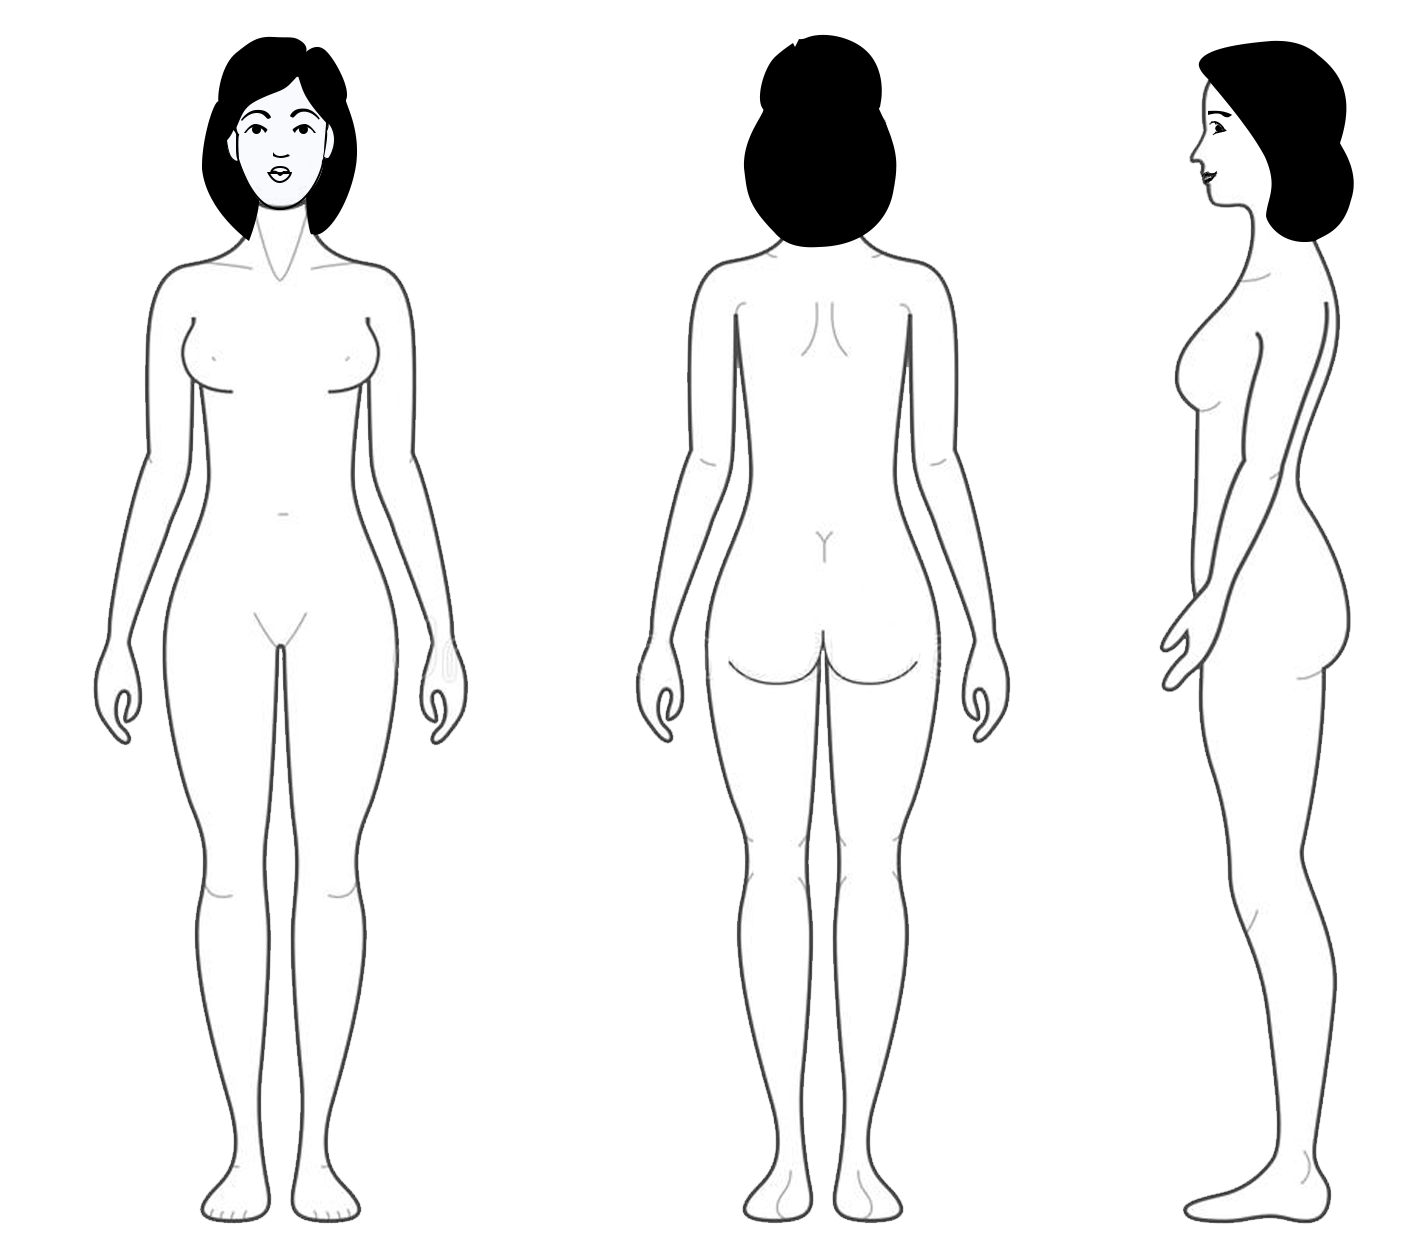
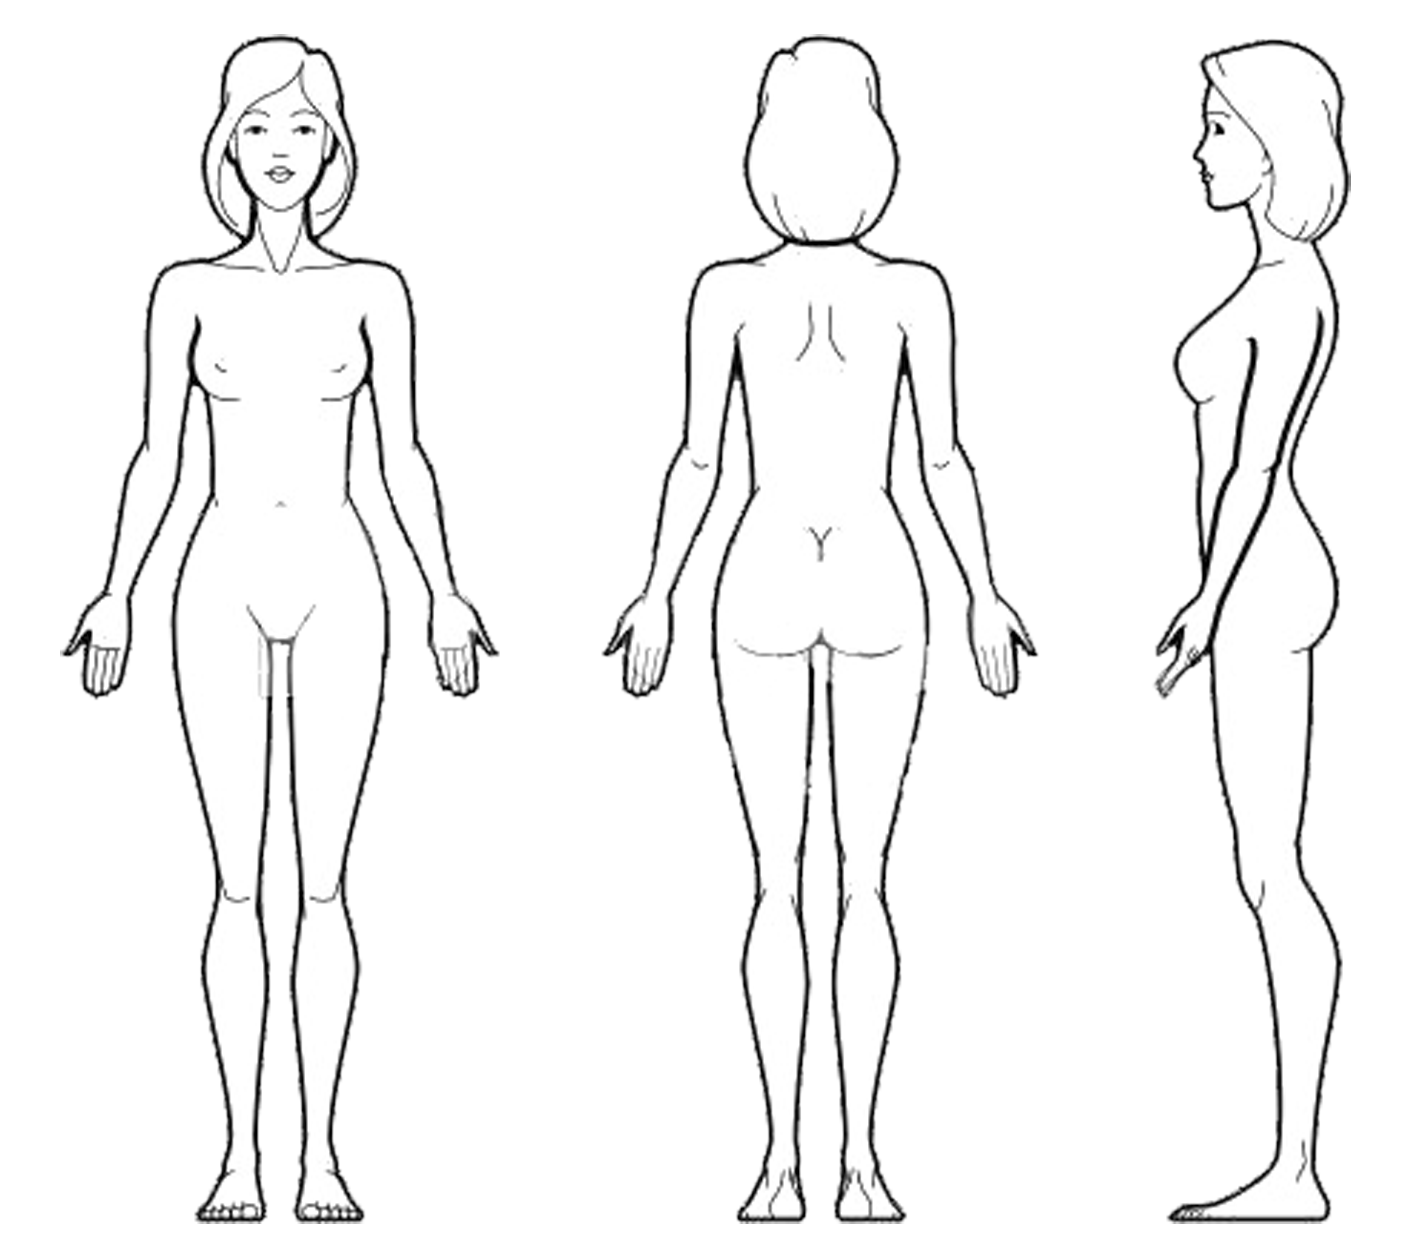
Re-adding newer content.

diff --git a/index.html b/index.html
@@ -6,7 +6,7 @@
     <title></title>
     <style>
         body {
-            font-family: "Helvetica Neue", "Helvetica", sans-serif;
+            font-family: "Lexend", "Helvetica Neue", "Helvetica", sans-serif;
             margin: 0;
             padding: 0;
             font-size: 14px;
@@ -26,17 +26,81 @@
             display: flex;
         }
 
-        footer {
-            background-color: #666;
-            color: #eee;
-            height: 0vh;
+        #dummy {
+            display: inline-block;
+            position: relative;
+            top: 0px;
+            left: 0px;
+            width: 100%;
+            background-color: #fffa;
+            object-fit: contain;
+            border: 1px solid #fff;
+        }
+
+        td {
+            white-space: nowrap;
+        }
+
+        #measureImage {
+            object-fit: contain;
+            height: 100vh;
+        }
+
+        #dummyWrap {
+            position: relative;
+            background-color: #0ac;
+            height: 100vh;
+        }
+
+        .line {
+            position: absolute;
+            visibility: hidden;
+        }
+
+        #measurements {
+            display: flex;
+            padding: 1em;
+            border: 1px solid #aaa;
+        }
+
+        .title {
+            position: absolute;
+            top: 0em;
+            left: 0em;
+            width: 100%;
+            height: 1em;
+            font-size: 32px;
+            font-weight: bold;
+            background-color: #fffa;
+            padding: .25em 1em .5em;
+            color: #000;
+            text-transform: capitalize;
+
         }
     </style>
 </head>
 
 <body>
-    <main></main>
+    <header></header>
+    <main>
+        <table id='measurements'>
+            <tbody id='measurementsBody'>
+                <tr>
+                    <td>Gender</td>
+                    <td><select onchange='app.switchGender(this.options[this.selectedIndex].value)' id='gender'>
+                            <option value='male'>Male</option>
+                            <option value='female'>Female</option>
+                        </select></td>
+                </tr>
+            </tbody>
+        </table>
+        <div id='dummy'>
+            <img src='measurements_male.png' id='measureImage'>
+            <div class='title'></div>
+        </div>
+    </main>
 
+    <footer></footer>
     <script>
         //function $(str) { return document.querySelector(str); }
         const $ = (str) => document.querySelector(str);
@@ -53,17 +117,83 @@
                     });
                 },
                 state: {
-                    loaded: false
+                    loaded: false,
+                    sex: 'male'
                 },
                 config: {
                     measurements: []
                 },
                 measurementTable: function() {
-
-                    app.config.measurements.forEach((item, idx) => {
+                    let out = "";
+                    let dummy = $("#dummy");
+                    let img = $("#measureImage");
+                    let dy = img.height / 1242;
+                    let dx = img.width / 1411;
+                    app.config.measurements[app.state.sex].forEach((item, idx) => {
                         console.dir(item);
+                        out += `<tr id='row_${item.id}'><td id='name_${item.id}'>${item.name}</td><td id='value_${item.id}'><input type='text' id='input_${item.id}'></td></tr>`;
+                        let img = new Image(item.overlaySize.width * dx, item.overlaySize.height * dy);
+                        img.src = app.state.sex + '/' + item.overlayImage;
+                        img.className = 'line';
+                        img.id = `line_${item.id}`;
+
+                        img.style.top = item.overlayCoord.y * dy + 'px';
+                        img.style.left = item.overlayCoord.x * dx + 'px';
+                        img.addEventListener("mouseover", app.lineOver);
+                        img.addEventListener("mouseout", app.lineOver);
+                        dummy.appendChild(img);
                     });
+                    $("#measurementsBody").innerHTML += out;
+                    $("#measurements").addEventListener("mouseover", app.doOver);
+                    $("#measurements").addEventListener("mouseout", app.doOut);
+                    $("#measurements").addEventListener("focus", app.doFocus, true);
+                    $("#measurements").addEventListener("blur", app.doFocus, true);
                 },
+                doFocus: function(e) {
+                    console.dir(e);
+                    let match;
+                    if (match = e.target.id.match(/(input)_(.*)/)) {
+                        if (e.type === 'focus') {
+                            app.state.focus = match[2];
+                            $(".title").innerHTML = match[2].replace(/\-/g, ' ');
+                        } else {
+                            app.state.focus = null;
+                            $(".title").innerHTML = '';
+
+                        }
+                    }
+                },
+                lineOver: function(e) {
+                    if (e.type === 'mouseover') {
+                        e.target.style.visibility = "visible";
+
+                    } else if (e.type === 'mouseout') {
+                        e.target.style.visibility = "hidden";
+                    }
+                },
+                doOver: function(e) {
+                    let match;
+                    if (match = e.target.id.match(/(name|value|input)_(.*)/)) {
+                        $(`#line_${match[2]}`).style.visibility = "visible";
+
+                        $(".title").innerHTML = match[2].replace(/\-/g, ' ');
+                    }
+
+                },
+                doOut: function(e) {
+                    let match;
+                    if (match = e.target.id.match(/(name|value|input)_(.*)/)) {
+                        if (match[2] !== app.state.focus) {
+                            $(`#line_${match[2]}`).style.visibility = "hidden";
+                            $(".title").innerHTML = (app.state.focus) ? app.state.focus.replace(/\-/g, ' ') : '';
+                        }
+                    }
+
+                },
+                switchGender: function(sex) {
+                    $("#measureImage").src = `measurements_${sex}.png`;
+                    app.state.sex = sex;
+                }
             }
             window.app = app;
             app.init();
